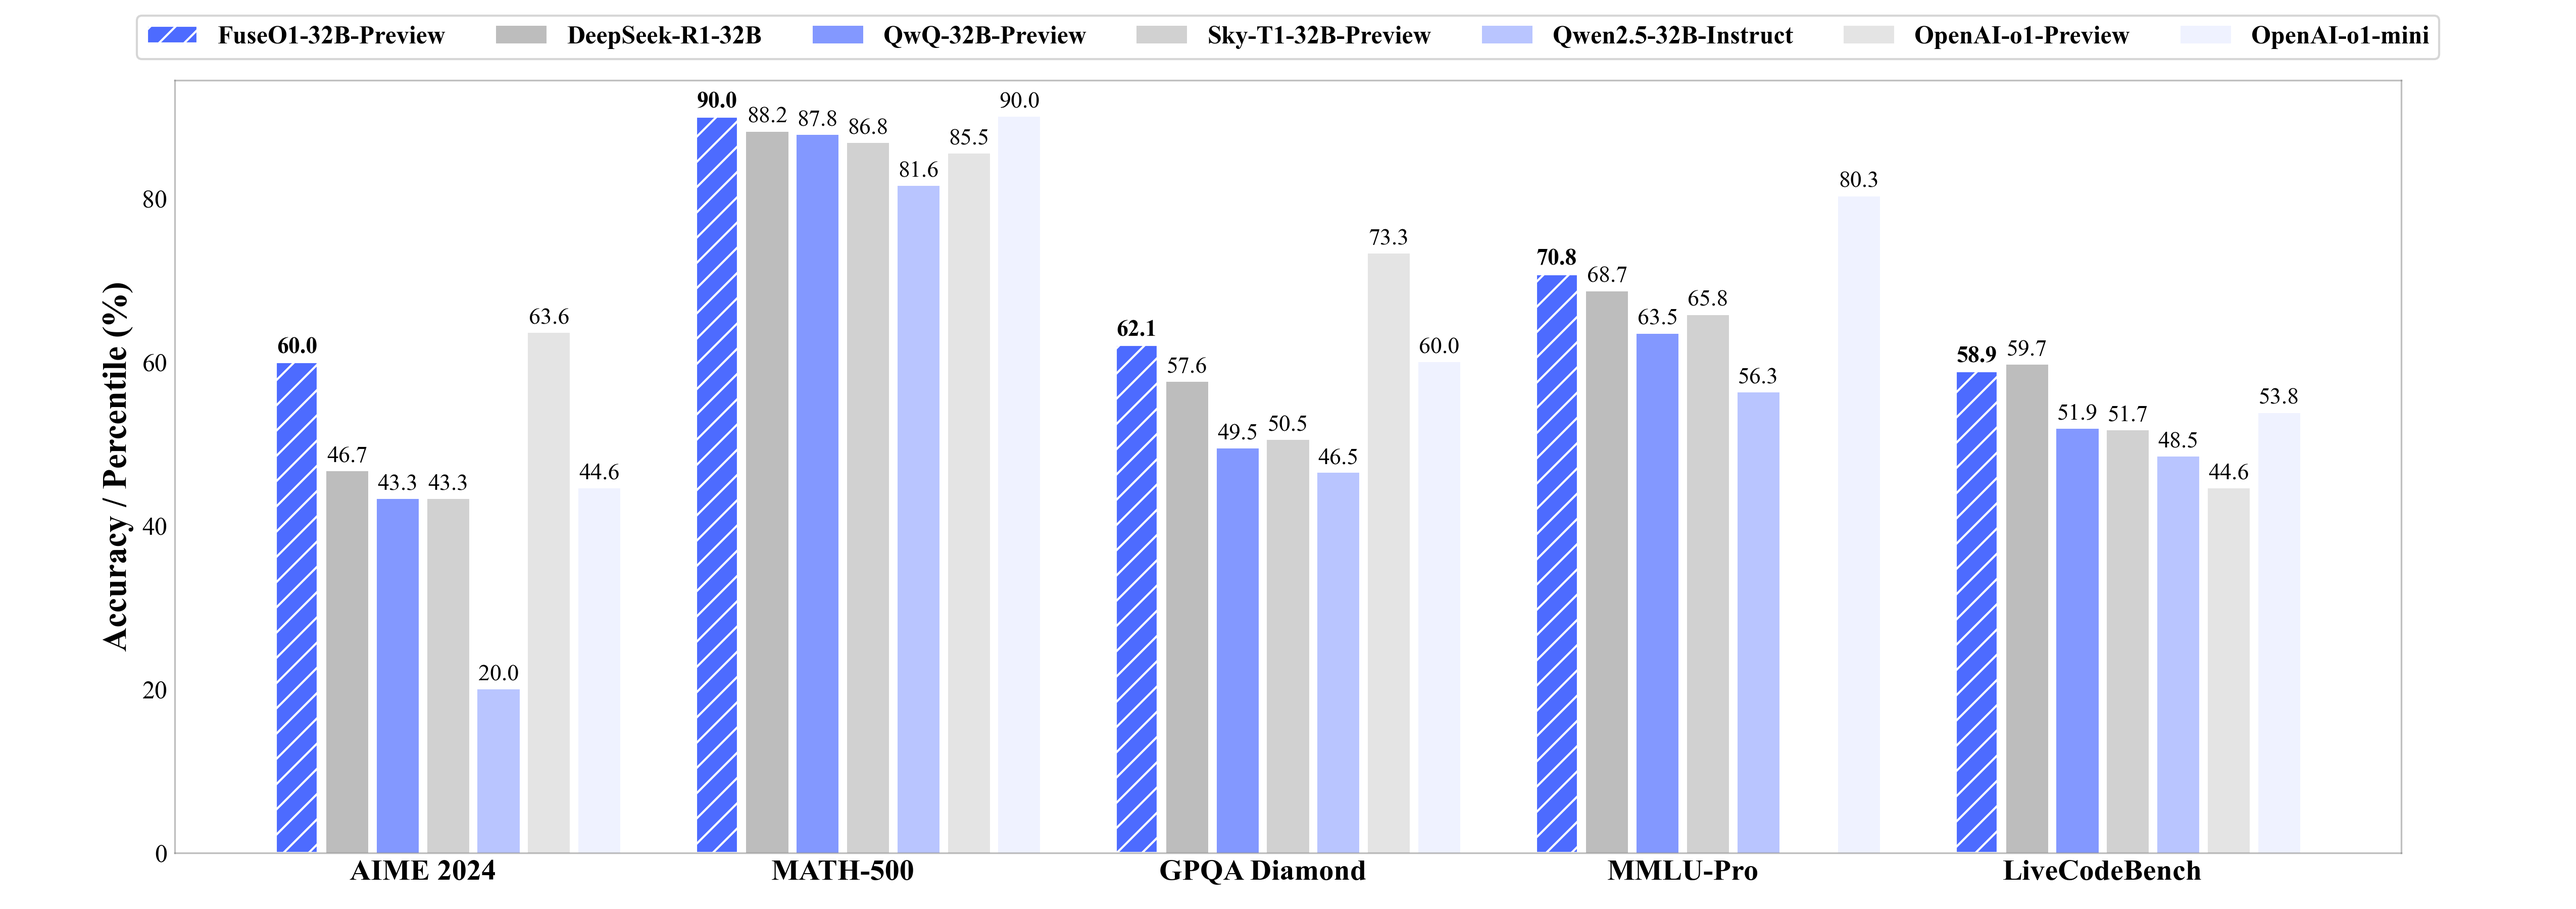
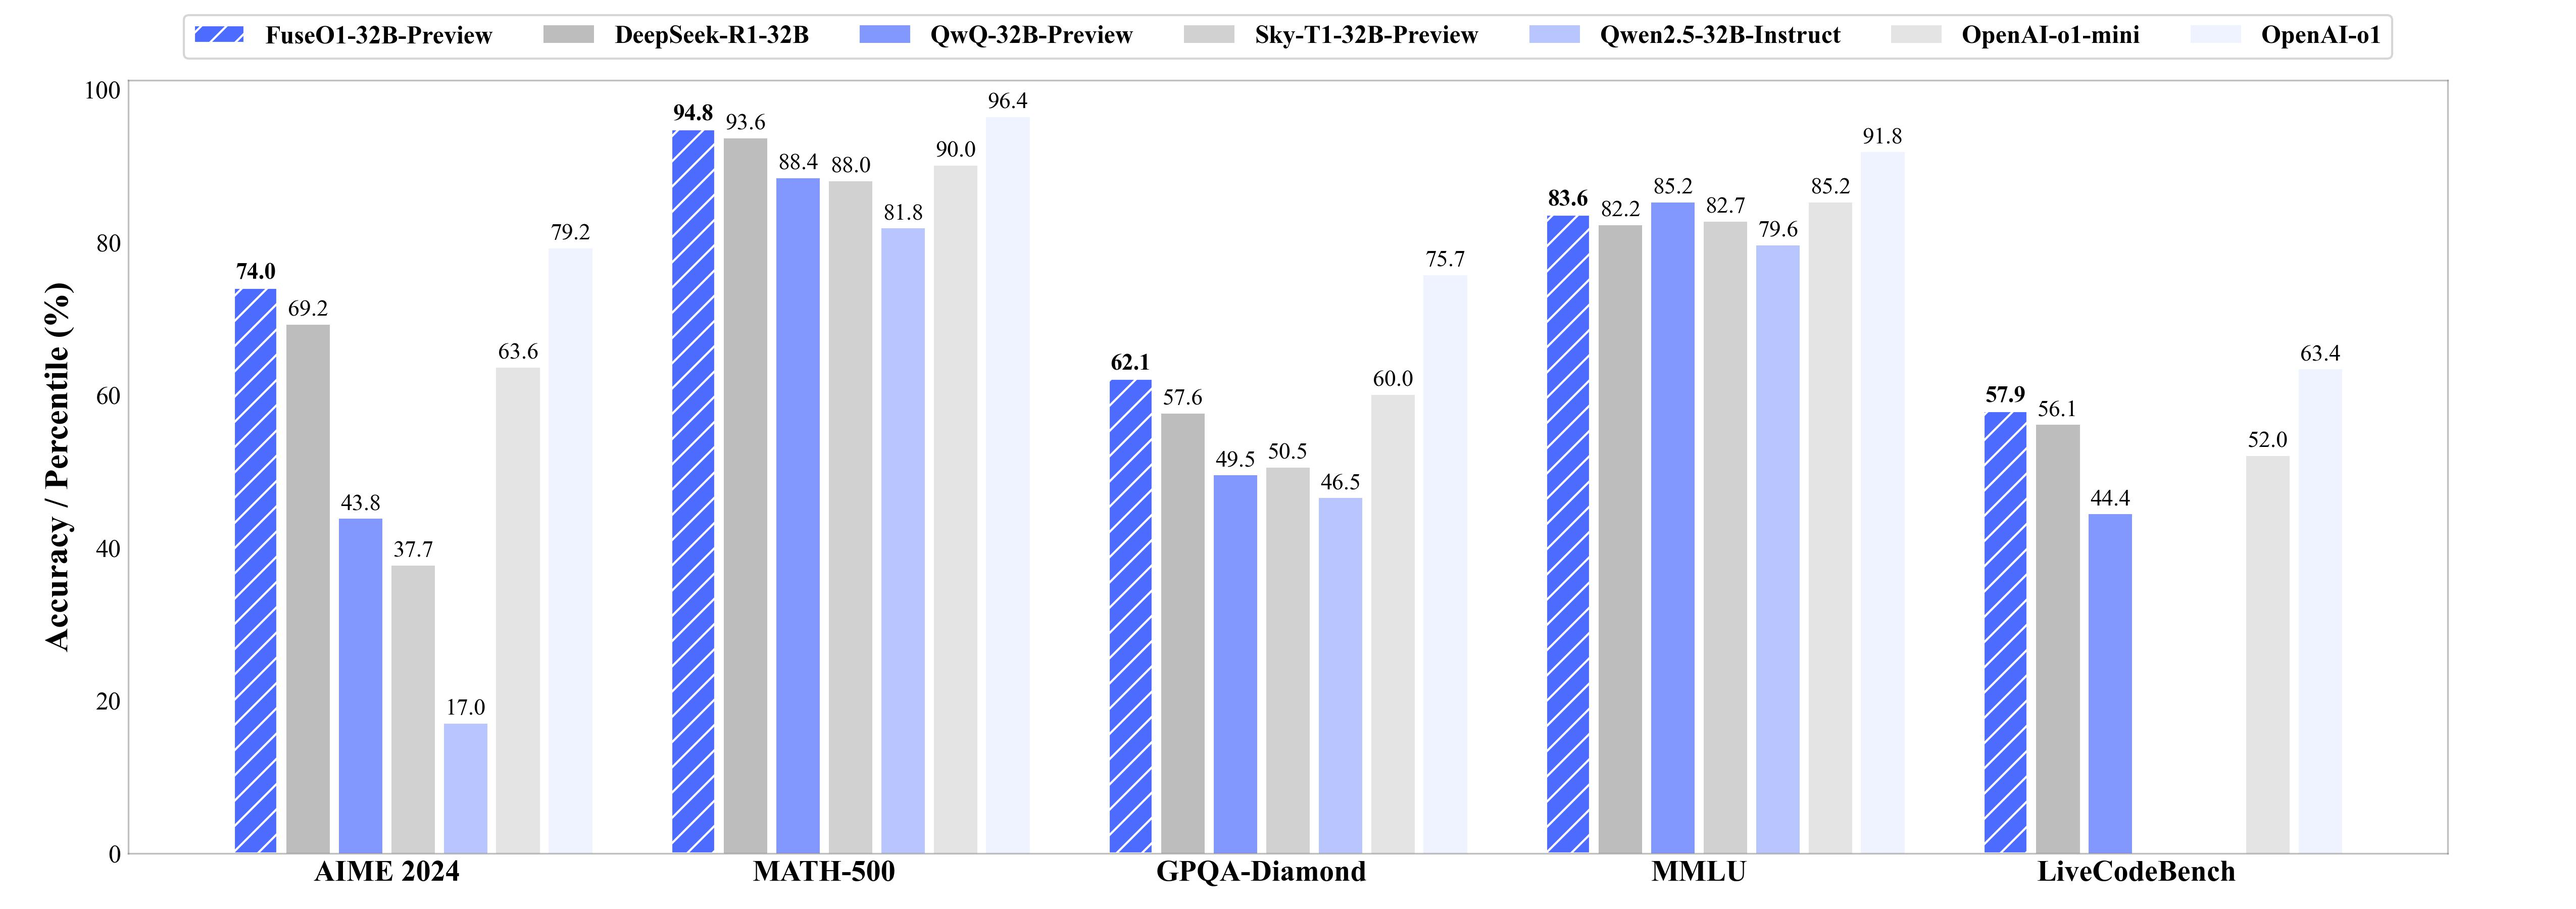
Update math and code evaluation.

diff --git a/FuseO1-Preview/evaluation/inference_and_check.py b/FuseO1-Preview/evaluation/inference_and_check.py
@@ -59,7 +59,7 @@ def perform_inference_and_check(handler: TaskHandler, temperatures, max_tokens, 
 
         else:
             if args.model in ["DeepSeek-R1-Distill-Qwen-32B", "FuseO1-DeepSeekR1-QwQ-SkyT1-32B-Preview", "FuseO1-DeepSeekR1-QwQ-32B-Preview", "FuseO1-DeepSeekR1-Qwen2.5-Instruct-32B-Preview"]:
-                sampling_params = SamplingParams(max_tokens=max_tokens, temperature=temp, stop=["<｜end▁of▁sentence｜>", "<｜User｜>"], stop_token_ids=[151643, 151644])
+                sampling_params = SamplingParams(max_tokens=max_tokens, temperature=temp, stop=["<|im_end|>", "<｜end▁of▁sentence｜>"], stop_token_ids=[151645, 151643])
             else:
                 sampling_params = SamplingParams(max_tokens=max_tokens, temperature=temp, stop=["<|im_end|>", "<|endoftext|>"], stop_token_ids=[151645, 151643])
             responses = llm.chat(messages=conversations, sampling_params=sampling_params, use_tqdm=True)
@@ -235,7 +235,7 @@ def perform_inference_and_save(handler: TaskHandler, temperatures, max_tokens, r
 
         else:
             if args.model in ["DeepSeek-R1-Distill-Qwen-32B", "FuseO1-DeepSeekR1-QwQ-SkyT1-32B-Preview", "FuseO1-DeepSeekR1-QwQ-32B-Preview", "FuseO1-DeepSeekR1-Qwen2.5-Instruct-32B-Preview"]:
-                sampling_params = SamplingParams(max_tokens=max_tokens, temperature=temp, stop=["<｜end▁of▁sentence｜>", "<｜User｜>"], stop_token_ids=[151643, 151644])
+                sampling_params = SamplingParams(max_tokens=max_tokens, temperature=temp, stop=["<|im_end|>", "<｜end▁of▁sentence｜>"], stop_token_ids=[151645, 151643])
             else:
                 sampling_params = SamplingParams(max_tokens=max_tokens, temperature=temp, stop=["<|im_end|>", "<|endoftext|>"], stop_token_ids=[151645, 151643])
             responses = llm.chat(messages=conversations, sampling_params=sampling_params, use_tqdm=True)

diff --git a/FuseO1-Preview/README.md b/FuseO1-Preview/README.md
@@ -14,12 +14,12 @@ FuseO1-Preview: System-II Reasoning Fusion of LLMs
 
 <!-- **Authors:** -->
 
-_Fanqi Wan, Longguang Zhong, Ziyi Yang_
+_Fanqi Wan, Longguang Zhong, Ziyi Yang, Weizhou Shen, Xinting Huang_
 
 
 <!-- **Affiliations:** -->
 
-_Sun Yat-sen University_
+_FuseAI Team_
 
 </div>
 
@@ -30,12 +30,16 @@ _Sun Yat-sen University_
 
 ## Overview
 
-[FuseO1-Preview](https://huggingface.co/collections/FuseAI/fuseo1-preview-678eb56093649b2688bc9977) is our initial endeavor to enhance the System-II reasoning capabilities of large language models (LLMs) through innovative model fusion techniques. By employing advanced [SCE](https://arxiv.org/abs/2408.07990) merging methodologies, we integrate multiple open-source o1-like LLMs into a unified model. Our goal is to incorporate the distinct knowledge and strengths from different reasoning LLMs into a single, unified model with strong System-II reasoning abilities, particularly in mathematics, coding, and science domains.
+[FuseO1-Preview](https://huggingface.co/collections/FuseAI/fuseo1-preview-678eb56093649b2688bc9977) is our initial endeavor to enhance the System-II reasoning capabilities of large language models (LLMs) through innovative model fusion techniques. By employing our advanced [SCE](https://arxiv.org/abs/2408.07990) merging methodologies, we integrate multiple open-source o1-like LLMs into a unified model. Our goal is to incorporate the distinct knowledge and strengths from different reasoning LLMs into a single, unified model with strong System-II reasoning abilities, particularly in mathematics, coding, and science domains.
+
+<p align="center">
+    <img src="./assets/sce.jpg" width="70%"> <br>
+</p>
 
 To achieve this, we conduct two types of model merging:
 
-- **Long-Long Reasoning Merging**: This approach involves model fusion across LLMs that utilize long-CoT reasoning, with the goal of enhancing long-CoT reasoning capabilities. The resulted [FuseAI/FuseO1-DeepSeekR1-QwQ-SkyT1-32B-Preview](https://huggingface.co/FuseAI/FuseO1-DeepSeekR1-QwQ-SkyT1-32B-Preview) achieves an accuracy of **60.00 on AIME24**,  demonstrating significant performance improvements compared to the o1-preview model (44.60) and approaching the performance of the o1-mini model (63.60).
-- **Long-Short Reasoning Merging**: This approach involves model fusion between long-CoT and short-CoT LLMs, aiming to improve reasoning capabilities in both long and short reasoning processes. The resulted [FuseAI/FuseO1-DeepSeekR1-Qwen2.5-Instruct-32B-Preview](https://huggingface.co/FuseAI/FuseO1-DeepSeekR1-Qwen2.5-Instruct-32B-Preview) and [FuseAI/FuseO1-DeepSeekR1-Qwen2.5-Coder-32B-Preview](https://huggingface.co/FuseAI/FuseO1-DeepSeekR1-Qwen2.5-Coder-32B-Preview) is capable of utilizing both long and short reasoning processes and demonstrates relatively strong performance in long reasoning tasks.
+- **Long-Long Reasoning Merging**: This approach involves model fusion across LLMs that utilize long-CoT reasoning, with the goal of enhancing long-CoT reasoning capabilities. The resulted [FuseAI/FuseO1-DeepSeekR1-QwQ-SkyT1-32B-Preview](https://huggingface.co/FuseAI/FuseO1-DeepSeekR1-QwQ-SkyT1-32B-Preview) achieves a Pass@1 accuracy of **74.0 on AIME24**,  demonstrating significant performance improvements compared to the OpenAI o1-preview (44.6) and OpenAI o1-mini (63.4), even approaching OpenAI o1 (79.2).
+- **Long-Short Reasoning Merging**: This approach involves model fusion between long-CoT and short-CoT LLMs, aiming to improve reasoning capabilities in both long and short reasoning processes. The resulted [FuseAI/FuseO1-DeepSeekR1-Qwen2.5-Instruct-32B-Preview](https://huggingface.co/FuseAI/FuseO1-DeepSeekR1-Qwen2.5-Instruct-32B-Preview) is capable of utilizing both long and short reasoning processes and demonstrates relatively strong performance in long reasoning tasks.
 
 | Model | Merge Type | Source Models | HF Link |
 |:----- | ---- | ---- | ---- |
@@ -145,15 +149,11 @@ We test the resulted models on three kinds of benchmarks, including **Math Reaso
 
 Math Reasoning
   - AIME24
-  - AMC23
   - MATH500
-  - GSM8K
   - OlympiadBench
-  - College-Math
 
 Scientific Reasoning
   - GPQA-Diamond
-  - ARC-Challenge
   - MMLU-Pro
   - MMLU
   
@@ -175,21 +175,23 @@ Please reason step by step, and put your final answer within \\boxed{{}}.
 
 The evaluation results are shown in the table below:
 
-In our evaluation of AIME24, we follow the method from DeepSeek-R1, wherein Pass@1 is computed by averaging the results across 64 sampled responses per prompt, while Cons@64 is determined through self-consistency analysis of the same 64 sampled responses for each prompt. For other benchmarks, we only sample 1 response and report the Pass@1.
+In our evaluation of AIME24, we follow the method from DeepSeek-R1, wherein Pass@1 is computed by averaging the results across 32 sampled responses per prompt, while Cons@32 is determined through self-consistency analysis of the same 64 sampled responses for each prompt. For other benchmarks, we only sample 1 response and report the Pass@1.
 
-| Models | AIME24 Pass@1 | AIME24 Cons@64 | AMC23 | MATH500 | GSM8K | OlympiadBench | College-Math |
-|:------ | --------------| ------------------- | ------------ | -------------- | ------------ | -------------------- | ------------------- |
-| OpenAI o1 | 79.2 | - | - | 73.3 | - | - | - |
-| OpenAI o1-preview | 44.6 | - | - | 85.5 | - | - | - |
-| OpenAI o1-mini | 63.6 | - | - | 90.0 | - | - | - |
-| DeepSeek R1 | 79.8 | - | - | 97.3 | - | - | - |
-| [deepseek-ai/DeepSeek-R1-Distill-Qwen-32B](https://huggingface.co/deepseek-ai/DeepSeek-R1-Distill-Qwen-32B) | - | - | - | - | - | - | - |
-| [Qwen/QwQ-32B-Preview](https://huggingface.co/Qwen/QwQ-32B-Preview) | - | - | - | - | - | - | - |
-| [NovaSky-AI/Sky-T1-32B-Preview](https://huggingface.co/NovaSky-AI/Sky-T1-32B-Preview) | - | - | - | - | - | - | - |
-| [Qwen/Qwen2.5-32B-Instruct](https://huggingface.co/Qwen/Qwen2.5-32B-Instruct) | - | - | - | - | - | - | - |
-| [FuseAI/FuseO1-DeepSeekR1-Qwen2.5-Instruct-32B-Preview](https://huggingface.co/FuseAI/FuseO1-DeepSeekR1-Qwen2.5-Instruct-32B-Preview) | - | - | - | - | - | - | - |
-| [FuseAI/FuseO1-DeepSeekR1-QwQ-32B-Preview](https://huggingface.co/FuseAI/FuseO1-DeepSeekR1-QwQ-32B-Preview) | - | - | - | - | - | - | - |
-| [FuseAI/FuseO1-DeepSeekR1-QwQ-SkyT1-32B-Preview](https://huggingface.co/FuseAI/FuseO1-DeepSeekR1-QwQ-SkyT1-32B-Preview) | - | - | - | - | - | - | - |
+| Models | AIME24 Pass@1 | AIME24 Cons@32 | MATH500 | OlympiadBench |
+|:------ | --------------| ------------------- | ------------ | -------------- |
+| OpenAI o1 | 79.2 | - | 96.4 | - |
+| OpenAI o1-preview | 44.6 | - | 85.5 | - |
+| OpenAI o1-mini | 63.6 | - | 90.0 | - |
+| DeepSeek R1 | 79.8 | - | 97.3 | - |
+| [deepseek-ai/DeepSeek-R1-Distill-Qwen-32B](https://huggingface.co/deepseek-ai/DeepSeek-R1-Distill-Qwen-32B) | 69.2 | 83.3 | 93.6 | 64.3 |
+| [Qwen/QwQ-32B-Preview](https://huggingface.co/Qwen/QwQ-32B-Preview) | 43.8 | 56.7 | 88.4 | 60.3 |
+| [NovaSky-AI/Sky-T1-32B-Preview](https://huggingface.co/NovaSky-AI/Sky-T1-32B-Preview) | 37.7 | 50.0 | 88.0 | - |
+| [Qwen/Qwen2.5-32B-Instruct](https://huggingface.co/Qwen/Qwen2.5-32B-Instruct) | 17.0 | 20.0 | 81.8 | 48.1 |
+| [FuseAI/FuseO1-DeepSeekR1-Qwen2.5-Instruct-32B-Preview](https://huggingface.co/FuseAI/FuseO1-DeepSeekR1-Qwen2.5-Instruct-32B-Preview) | 68.6 | 83.3 | 94.6 | 64.9 |
+| [FuseAI/FuseO1-DeepSeekR1-QwQ-32B-Preview](https://huggingface.co/FuseAI/FuseO1-DeepSeekR1-QwQ-32B-Preview) | 69.7 | 83.3 | 94.6 | 64.0 |
+| [FuseAI/FuseO1-DeepSeekR1-QwQ-SkyT1-32B-Preview](https://huggingface.co/FuseAI/FuseO1-DeepSeekR1-QwQ-SkyT1-32B-Preview) | 74.0 | 86.7 | 94.8 | 65.0 |
+
+We show that our merged FuseO1-DeepSeekR1-QwQ-SkyT1-32B-Preview demonstrate superior performance improvements comparet to DeepSeek-R1-Distill-Qwen-32B, QwQ-32B-Preview, and Sky-T1-32B-Preview on math reasoning. Specifically, our model achieves an accuracy of **74.0 Pass@1 and 86.7 Cons@32 on AIME24**,  demonstrating significant performance improvements compared to DeepSeek-R1-Distill-Qwen-32B (69.2 Pass@1 and 83.3 Cons@32), OpenAI o1-preview (44.6 Pass@1) and OpenAI o1-mini (63.4 Pass@1), even approaching OpenAI o1 (79.2 Pass@1).
 
 ### Scientific Reasoning
 
@@ -203,19 +205,22 @@ You are a helpful and harmless assistant. You should think step-by-step.
 
 The evaluation results are shown in the table below:
 
-| Models | GPQA-Diamond | ARC-Challenge | MMLU-Pro | MMLU | LiveCodeBench |
-|:------ | --------------| ------------------- | ------------ | -------------- | ------------ |
-| OpenAI o1 | 75.7 | - | - | 91.8 | 63.4 |
-| OpenAI o1-preview | 73.3 | - | - | 90.8 | 44.6 |
-| OpenAI o1-mini | 60.0 | - | 80.3 | 85.2 | 53.8 |
-| DeepSeek R1 | 71.5 | - | 84.0 | 90.8 | 65.9 |
-| [deepseek-ai/DeepSeek-R1-Distill-Qwen-32B](https://huggingface.co/deepseek-ai/DeepSeek-R1-Distill-Qwen-32B) | 57.6 | 95.9 | 68.7 | 82.2 | 59.7 |
-| [Qwen/QwQ-32B-Preview](https://huggingface.co/Qwen/QwQ-32B-Preview) | 49.5 | 95.7 | 63.5 | 85.2 | 51.9 |
-| [NovaSky-AI/Sky-T1-32B-Preview](https://huggingface.co/NovaSky-AI/Sky-T1-32B-Preview) | 50.5 | 95.6 | 65.8 | 82.7 | 51.7 |
-| [Qwen/Qwen2.5-32B-Instruct](https://huggingface.co/Qwen/Qwen2.5-32B-Instruct) | 46.5 | 95.2 | 56.3 | 79.6 | 48.5 |
-| [FuseAI/FuseO1-DeepSeekR1-Qwen2.5-Instruct-32B-Preview](https://huggingface.co/FuseAI/FuseO1-DeepSeekR1-Qwen2.5-Instruct-32B-Preview) | 55.1 | 96.3 | 68.6 | 82.0 | 60.7 |
-| [FuseAI/FuseO1-DeepSeekR1-QwQ-32B-Preview](https://huggingface.co/FuseAI/FuseO1-DeepSeekR1-QwQ-32B-Preview) | 62.1 | 96.1 | 68.9 | 82.7 | 59.5 |
-| [FuseAI/FuseO1-DeepSeekR1-QwQ-SkyT1-32B-Preview](https://huggingface.co/FuseAI/FuseO1-DeepSeekR1-QwQ-SkyT1-32B-Preview) | 62.1 | 95.9 | 70.8 | 83.6 | 58.9 |
+| Models | GPQA-Diamond| MMLU-Pro | MMLU |
+|:------ | --------------| ------------ | -------------- |
+| OpenAI o1 | 75.7 | - | 91.8 |
+| OpenAI o1-preview | 73.3 | - | 90.8 |
+| OpenAI o1-mini | 60.0 | 80.3 | 85.2 |
+| DeepSeek R1 | 71.5 | 84.0 | 90.8 |
+| [deepseek-ai/DeepSeek-R1-Distill-Qwen-32B](https://huggingface.co/deepseek-ai/DeepSeek-R1-Distill-Qwen-32B) | 57.6 | 68.7 | 82.2 |
+| [Qwen/QwQ-32B-Preview](https://huggingface.co/Qwen/QwQ-32B-Preview) | 49.5 | 63.5 | 85.2 |
+| [NovaSky-AI/Sky-T1-32B-Preview](https://huggingface.co/NovaSky-AI/Sky-T1-32B-Preview) | 50.5 | 65.8 | 82.7 |
+| [Qwen/Qwen2.5-32B-Instruct](https://huggingface.co/Qwen/Qwen2.5-32B-Instruct) | 46.5 | 56.3 | 79.6 |
+| [FuseAI/FuseO1-DeepSeekR1-Qwen2.5-Instruct-32B-Preview](https://huggingface.co/FuseAI/FuseO1-DeepSeekR1-Qwen2.5-Instruct-32B-Preview) | 55.1 | 68.6 | 82.0 |
+| [FuseAI/FuseO1-DeepSeekR1-QwQ-32B-Preview](https://huggingface.co/FuseAI/FuseO1-DeepSeekR1-QwQ-32B-Preview) | 62.1 | 68.9 | 82.7 |
+| [FuseAI/FuseO1-DeepSeekR1-QwQ-SkyT1-32B-Preview](https://huggingface.co/FuseAI/FuseO1-DeepSeekR1-QwQ-SkyT1-32B-Preview) | 62.1 | 70.8 | 83.6 |
+
+We show that our merged FuseO1-DeepSeekR1-QwQ-SkyT1-32B-Preview demonstrate superior performance improvements comparet to DeepSeek-R1-Distill-Qwen-32B, QwQ-32B-Preview, and Sky-T1-32B-Preview on scientific reasoning. Specifically, our model achieves an accuracy of **62.1 on GPQA-Diamond and 70.8 on MMLU-Pro**, demonstrating significant performance improvements compared to DeepSeek-R1-Distill-Qwen-32B (57.6 on GPQA-Diamond and 68.7 on MMLU-Pro).
+
 
 ## Code Reasoning
 
@@ -237,11 +242,14 @@ The evaluation results are shown in the table below:
 | OpenAI o1-preview | 42.7 | 97.0 | 47.2 | 9.8 |
 | OpenAI o1-mini | 52.00 | 91.0 | 67.4 | 19.5 |
 | DeepSeek R1 | 62.8 | 98.4 | 78.3 | 32.2 |
-| [deepseek-ai/DeepSeek-R1-Distill-Qwen-32B](https://huggingface.co/deepseek-ai/DeepSeek-R1-Distill-Qwen-32B) | - | - | - | - |
-| [Qwen/QwQ-32B-Preview](https://huggingface.co/Qwen/QwQ-32B-Preview) | - | - | - | - |
-| [FuseAI/FuseO1-DeepSeekR1-Qwen2.5-Coder-32B-Preview](https://huggingface.co/FuseAI/FuseO1-DeepSeekR1-Qwen2.5-Instruct-32B-Preview) | - | - | - | - |
-| [FuseAI/FuseO1-DeepSeekR1-QwQ-SkyT1-32B-Preview](https://huggingface.co/FuseAI/FuseO1-DeepSeekR1-QwQ-SkyT1-32B-Preview) | - | - | - | - |
+| [deepseek-ai/DeepSeek-R1-Distill-Qwen-32B](https://huggingface.co/deepseek-ai/DeepSeek-R1-Distill-Qwen-32B) | 56.1 | 93.6 | 73.1 | 23.4 |
+| [Qwen/QwQ-32B-Preview](https://huggingface.co/Qwen/QwQ-32B-Preview) | 44.4 | 94.9 | 53.8 | 10.0 |
+| [FuseAI/FuseO1-DeepSeekR1-Qwen2.5-Coder-32B-Preview](https://huggingface.co/FuseAI/FuseO1-DeepSeekR1-Qwen2.5-Coder-32B-Preview) (N=1) | 11.8 | 32.8 | 9.0 | 2.4 |
+| [FuseAI/FuseO1-DeepSeekR1-QwQ-SkyT1-32B-Preview](https://huggingface.co/FuseAI/FuseO1-DeepSeekR1-QwQ-SkyT1-32B-Preview) | 57.9 | 93.6 | 76.0 | 25.5 |
 
+We show that our merged FuseO1-DeepSeekR1-QwQ-SkyT1-32B-Preview demonstrate superior performance improvements comparet to DeepSeek-R1-Distill-Qwen-32B, QwQ-32B-Preview, and Sky-T1-32B-Preview on scientific reasoning. Specifically, our model achieves an accuracy of **57.9 on LiveCodeBench and 25.5 on LiveCodeBench-Hard**,  demonstrating significant performance improvements compared to DeepSeek-R1-Distill-Qwen-32B (56.1 on LiveCodeBench and 23.4 on LiveCodeBench-Hard), OpenAI o1-preview (42.7 on LiveCodeBench and 9.8 on LiveCodeBench-Hard) and OpenAI o1-mini (52.0 on LiveCodeBench and 19.5 on LiveCodeBench-Hard Pass@1).
+
+However, we note that the code merged model dose not perform well. We suggets this could be due to the large weight different between Qwen-2.5-Coder-32B and DeepSeek-R1-Distill-Qwen-32B, thus lead to decreased performance.
 
 ## Future Works
 

diff --git a/FuseO1-Preview/evaluation/README.md b/FuseO1-Preview/evaluation/README.md
@@ -16,17 +16,17 @@ You can evaluate with the following command:
 ```bash
 export CUDA_VISIBLE_DEVICES="0,1,2,3,4,5,6,7"
 
-python3 eval.py --model deepseek-ai/DeepSeek-R1-Distill-Qwen-32B --evals=GPQA,ARC-C,MMLUPro,MMLU --tp=8 --output_file=results.txt --temperatures 0.7
+python3 eval.py --model deepseek-ai/DeepSeek-R1-Distill-Qwen-32B --evals=GPQA,MMLUPro,MMLU --tp=8 --output_file=results.txt --temperatures 0.7
 
-python3 eval.py --model Qwen/QwQ-32B-Preview --evals=GPQA,ARC-C,MMLUPro,MMLU --tp=8 --output_file=results.txt --temperatures 0.7
+python3 eval.py --model Qwen/QwQ-32B-Preview --evals=GPQA,MMLUPro,MMLU --tp=8 --output_file=results.txt --temperatures 0.7
 
-python3 eval.py --model NovaSky-AI/Sky-T1-32B-Preview --evals=GPQA,ARC-C,MMLUPro,MMLU --tp=8 --output_file=results.txt --temperatures 0.7
+python3 eval.py --model NovaSky-AI/Sky-T1-32B-Preview --evals=GPQA,MMLUPro,MMLU --tp=8 --output_file=results.txt --temperatures 0.7
 
-python3 eval.py --model Qwen/Qwen2.5-32B-Instruct --evals=GPQA,ARC-C,MMLUPro,MMLU --tp=8 --output_file=results.txt --temperatures 0.7
+python3 eval.py --model Qwen/Qwen2.5-32B-Instruct --evals=GPQA,MMLUPro,MMLU --tp=8 --output_file=results.txt --temperatures 0.7
 
-python3 eval.py --model FuseAI/FuseO1-DeepSeekR1-Qwen2.5-Instruct-32B-Preview --evals=GPQA,ARC-C,MMLUPro,MMLU --tp=8 --output_file=results.txt --temperatures 0.7
+python3 eval.py --model FuseAI/FuseO1-DeepSeekR1-Qwen2.5-Instruct-32B-Preview --evals=GPQA,MMLUPro,MMLU --tp=8 --output_file=results.txt --temperatures 0.7
 
-python3 eval.py --model FuseAI/FuseO1-DeepSeekR1-QwQ-32B-Preview --evals=GPQA,ARC-C,MMLUPro,MMLU --tp=8 --output_file=results.txt --temperatures 0.7
+python3 eval.py --model FuseAI/FuseO1-DeepSeekR1-QwQ-32B-Preview --evals=GPQA,MMLUPro,MMLU --tp=8 --output_file=results.txt --temperatures 0.7
 
-python3 eval.py --model FuseAI/FuseO1-DeepSeekR1-QwQ-SkyT1-32B-Preview --evals=GPQA,ARC-C,MMLUPro,MMLU --tp=8 --output_file=results.txt --temperatures 0.7
+python3 eval.py --model FuseAI/FuseO1-DeepSeekR1-QwQ-SkyT1-32B-Preview --evals=GPQA,MMLUPro,MMLU --tp=8 --output_file=results.txt --temperatures 0.7
 ```

diff --git a/FuseO1-Preview/math_evaluation/README.md b/FuseO1-Preview/math_evaluation/README.md
@@ -33,7 +33,7 @@ done
 
 for model_name in "DeepSeek-R1-Distill-Qwen-32B"
 do
-  seed=0
+  seed=2
   mkdir -p "${result_dir}/${model_name}-seed${seed}"
   prompt_type="deepseek-math-cot"
   bash ./sh/eval_others.sh $prompt_type ${model_path}/${model_name} "${result_dir}/${model_name}-seed${seed}" $seed
@@ -52,7 +52,7 @@ done
 
 for model_name in "QwQ-32B-Preview"
 do
-  seed=0
+  seed=2
   mkdir -p "${result_dir}/${model_name}-seed${seed}"
   prompt_type="qwen25-math-cot"
   bash ./sh/eval_others.sh $prompt_type ${model_path}/${model_name} "${result_dir}/${model_name}-seed${seed}" $seed
@@ -71,7 +71,7 @@ done
 
 for model_name in "Sky-T1-32B-Preview"
 do
-  seed=0
+  seed=2
   mkdir -p "${result_dir}/${model_name}-seed${seed}"
   prompt_type="sky-t1-math-cot"
   bash ./sh/eval_others.sh $prompt_type ${model_path}/${model_name} "${result_dir}/${model_name}-seed${seed}" $seed
@@ -90,7 +90,7 @@ done
 
 for model_name in "Qwen2.5-32B-Instruct"
 do
-  seed=0
+  seed=2
   mkdir -p "${result_dir}/${model_name}-seed${seed}"
   prompt_type="qwen25-math-cot"
   bash ./sh/eval_others.sh $prompt_type ${model_path}/${model_name} "${result_dir}/${model_name}-seed${seed}" $seed
@@ -109,7 +109,7 @@ done
 
 for model_name in "FuseO1-DeepSeekR1-QwQ-SkyT1-32B-Preview"
 do
-  seed=0
+  seed=2
   mkdir -p "${result_dir}/${model_name}-seed${seed}"
   prompt_type="deepseek-math-cot"
   bash ./sh/eval_others.sh $prompt_type ${model_path}/${model_name} "${result_dir}/${model_name}-seed${seed}" $seed
@@ -127,7 +127,7 @@ done
 
 for model_name in "FuseO1-DeepSeekR1-QwQ-32B-Preview"
 do
-  seed=0
+  seed=2
   mkdir -p "${result_dir}/${model_name}-seed${seed}"
   prompt_type="deepseek-math-cot"
   bash ./sh/eval_others.sh $prompt_type ${model_path}/${model_name} "${result_dir}/${model_name}-seed${seed}" $seed
@@ -146,7 +146,7 @@ done
 
 for model_name in "FuseO1-DeepSeekR1-Qwen2.5-Instruct-32B-Preview"
 do
-  seed=0
+  seed=2
   mkdir -p "${result_dir}/${model_name}-seed${seed}"
   prompt_type="deepseek-math-cot"
   bash ./sh/eval_others.sh $prompt_type ${model_path}/${model_name} "${result_dir}/${model_name}-seed${seed}" $seed
